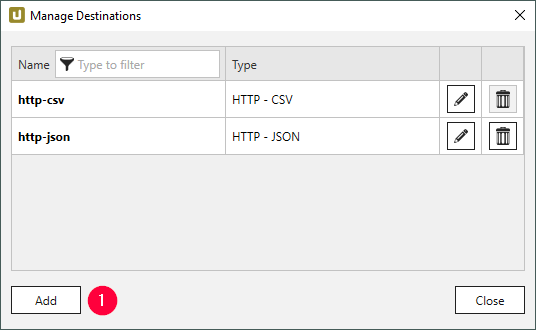
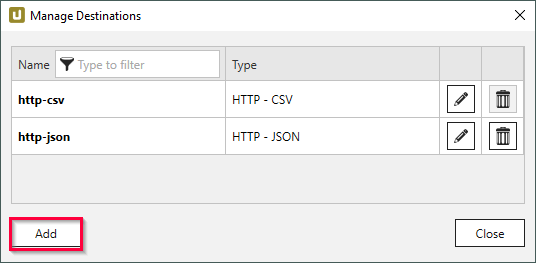
csv destination

Changed region(s): [[0.0299, 0.1217, 0.9851, 0.6084], [0.0, 0.7605, 1.0, 1.0], [0.0, 0.0, 1.0, 0.0913]]

diff --git a/projects/xtract-universal/docs/documentation/destinations/csv-via-http.md b/projects/xtract-universal/docs/documentation/destinations/csv-via-http.md
@@ -1,6 +1,60 @@
 ---
-title: CSV Web Service
+title: HTTP CSV
 description: CSV Web Service destination
 ---
 
-Coming soon...
+This page shows how to set up and use the {{ page.meta.title }} destination. <br>
+The {{ page.meta.title }} destination is a generic CSV stream over HTTP. 
+It is supported by many products, e.g., Layer2, INFONEA and KNIME. 
+
+## Create a new {{ page.meta.title }} Destination
+
+Follow the steps below to add a new {{ page.meta.title }} destination to {{ productName }}:
+
+1. In the main window of the Designer, navigate to **Server > [Manage Destinations](./managing-destinations)**. The window “Manage Destinations” opens.<br>
+![xu-destinations](../../assets/images/xu/documentation/destinations/xu_destination.png)
+2. Click **[Add]** to create a new destination. The window "Destination Details" opens.<br>
+![destinations_load_manage_shared](../../assets/images/xu/documentation/destinations/destinations_load_manage_shared.png)
+3. Enter a **Name** for the destination.
+4. Select the destination type *{{ page.meta.title }}* from the drop-down menu. 
+A list of connection details opens.
+5. Fill out the [destination details](#destination details) to connect to the destination.
+5. Click **[OK]** to confirm your input.
+
+The destination can now be assigned to extractions.
+
+### Destination Details
+
+The destination details define the connection to the destination.
+
+![CSV-Destination-Details](../../assets/images/xu/documentation/destinations/http-csv/destination-details.png){:class="img-responsive"}
+
+{% include "xu-destinations/csv-settings.md" %}
+
+{% include "xu-destinations/convert-encoding.md" %}
+
+## Assign the {{ page.meta.title }} Destination to an Extraction
+
+Extractions write data to their assigned destination. Follow the steps below to assign a destination to an extraction:
+
+1. In the main window of the Designer, select an extraction.
+2. Click **[:designer-destination:Destination]**. The window “Destination Settings” opens.<br>
+![xu_designer_destination](../../assets/images/xu/documentation/destinations/xu_designer_destination.png){:class="img-responsive"}
+3. In the “Destination Settings” window, select a destination from the drop down menu.<br>
+![assign-destination](../../assets/images/xu/documentation/destinations/assign-destination.png){:class="img-responsive"}
+4. Optional: edit the [destination settings](#destination-settings).
+5. Click **[OK]** to confirm your input.
+
+When running the extraction, the extracted SAP data is now written to the destination.
+
+### Destination Settings
+
+The destination settings only affect the extraction type that the destination is assigned to.
+To open the destination settings, select an extraction in the main window of the Designer and click **[:designer-destination:Destination]**.
+The window "Destination Settings" opens.
+
+![Destination-settings](../../assets/images/xu/documentation/destinations/http-csv/destination-settings.png){:class="img-responsive"}
+
+{% include "xu-destinations/column-name-style.md" %}
+
+{% include "xu-destinations/date-conversion.md " %}

diff --git a/projects/xtract-universal/docs/knowledge-base/run-an-ADF-pipeline-when-sap-extraction-file-is-successfully-uploaded-to-Azure-storage.md b/projects/xtract-universal/docs/knowledge-base/run-an-ADF-pipeline-when-sap-extraction-file-is-successfully-uploaded-to-Azure-storage.md
@@ -39,8 +39,8 @@ In the scenario depicted, the ADF pipeline executes a stored procedure to log va
 ### Prerequisites
 
 - Basic knowledge of {{ productName }}, see [Getting Started](../getting-started.md).
-- YBasic knowledge of [Azure Storage](https://docs.microsoft.com/en-us/azure/storage/common/storage-introduction).
-- You can successfully run {{ extractions }} from a web browser, see [Run an Extraction: URL and command-line](xtract-universal/getting-started/run-an-extraction#url-and-command-line-3).
+- Basic knowledge of [Azure Storage](https://docs.microsoft.com/en-us/azure/storage/common/storage-introduction).
+- You can successfully run {{ extractions }} from a web browser, see [Web API: Run Extractions](../web-api.md/#run-extractions).
 - [Azure Storage Destination](../documentation/destinations/azure-storage.md) is set up and running. 
 - Access to [Azure Data Factory](https://docs.microsoft.com/en-us/azure/data-factory/); basic knowledge of building ADF pipelines.
 - Basic knowledge of ADF pipeline triggers, especially [triggering a pipeline in response to a storage event](https://docs.microsoft.com/en-us/azure/data-factory/how-to-create-event-trigger?tabs=data-factory). 

diff --git a/projects/xtract-universal/docs/knowledge-base/link-bex-query-with-hierarchy.md b/projects/xtract-universal/docs/knowledge-base/link-bex-query-with-hierarchy.md
@@ -14,7 +14,7 @@ By linking the extractions, you can blend data from both data sources into a sin
 ![XU-Tableau-BExQuery-Settings](../assets/images/xu/articles/XU-Tableau-BExQuery-Settings.png){:class="img-responsive"}
 2. Open the Destination Settings of the extraction and set *Text* as the **Column Name Style** for Tableau.
 Note that using *Text* as the column name style can result in column names that are not unique.
-4. Create a BW Hierarchy extraction, see [Define a Hierarchy Extraction](../documentation/hierarchy/#define-the-bw-hierarchy-extraction-type). 
+4. Create a BW Hierarchy extraction, see [Define a Hierarchy Extraction](../documentation/hierarchy/index.md#define-the-bw-hierarchy-extraction-type). 
 <!--- ![XU-Tableau-Hierarchy](../assets/images/xu/articles/XU-Tableau-Hierarchy.png){:class="img-responsive"} -->
 5. Open the Extraction Settings of the Hierarchy and set **Representation** to *Natural*:<br>
 ![XU-Tableau-Hierarchy-Settings](../assets/images/xu/articles/XU-Tableau-Hierarchy-Settings.png){:class="img-responsive"}

diff --git a/includes/xu-destinations/column-name-style.md b/includes/xu-destinations/column-name-style.md
@@ -1,0 +1,14 @@
+
+### Column Name Style
+
+Defines the style of the column name. Following options are available: 
+
+![column_name_style_options](../../assets/images/xu/documentation/destinations/http-csv/column_name_style_options.png){:class="img-responsive"}
+
+| Option | Description |
+|--------|-------------|
+| *Code* | The SAP technical column name is used as column name in the destination e.g., MAKTX. |
+| *PrefixedCode* | The SAP technical column name is prefixed by SAP object name and the tilde character e.g., MAKT~MAKTX |
+| *CodeAndText* | The SAP technical column name and the SAP description separated by an underscore are used as column name in the destination e.g., MAKTX_Material Description (Short Text). |
+| *TextAndCode* | The SAP description and the SAP technical column name description separated by an underscore are used as column name in the destination e.g., Material Description (Short Text)_MAKTX. |
+| *Text* | The SAP description is used as column name in the destination e.g., Material Description (Short Text). |

diff --git a/includes/xu-destinations/csv-settings.md b/includes/xu-destinations/csv-settings.md
@@ -1,0 +1,26 @@
+
+### CSV Settings
+
+#### Column seperator
+Defines how two columns in CSV are separated.
+
+#### Row separator
+Defines how two rows in CSV are separated.
+
+#### Quote symbol
+Defines which character is used to encase field data. A sequence of characters may be used as "Quote symbol".
+Quotation is applied in the following scenarios:
+- The Column separator is part of the field data.
+- The Quote symbol is part of the field data.
+- The Row separator is part of the field data.
+- The Escape character is part of the field data.
+
+#### Escape character
+When Escape character is part of the field data, the respective field containing this character is encased by the "Quote symbol".
+The default escape character is the backslash '\\'. The field may remain empty.
+
+#### Column names in first row*
+Defines if the first row contains the column names. This option is set per default.
+
+#### Row separator after last row
+Defines if the last row contains a row separator. This option is set per default.

diff --git a/projects/xtract-universal/docs/documentation/execute-and-automate/call-via-commandline.md b/projects/xtract-universal/docs/documentation/execute-and-automate/call-via-commandline.md
@@ -25,7 +25,7 @@ The command line tool connects to an {{ productName }} server (service) and star
 | -o   | Parameters to be set when running the extraction. <br> Multiple parameters can be set. | `xu.exe -n <name> -s <host> -p <port> -o "param1=<wert1>" -o "param2=<wert2>"`|
 | -e   | Use [Transport Layer Security (TLS)](https://docs.microsoft.com/en-us/windows/win32/secauthn/transport-layer-security-protocol) (1.2 or higher). |   `xu.exe  -n <name> -s <host> -p <port> -e`|
 | -a   | Cancel all running instances of the extraction. | `xu.exe -a` |
-| -c   | Clear the result cache and options of the extraction. <br> This only works with [Pull Destinations](../destinations#pull-and-push-destinations). | `xu.exe -c` |  
+| -c   | Clear the result cache and options of the extraction. <br> This only works with [Pull Destinations](../destinations/index.md). | `xu.exe -c` |  
 
 #### Examples
 To run an extraction on the {{ productName }} server, call the command line tool as follows:

diff --git a/projects/xtract-universal/docs/knowledge-base/adf-integration-using-webservices.md b/projects/xtract-universal/docs/knowledge-base/adf-integration-using-webservices.md
@@ -17,7 +17,7 @@ This article targets customers that utilize ADF as a platform for orchestrating 
 
 - A [self-hosted Integration runtime](https://docs.microsoft.com/EN-US/azure/data-factory/create-self-hosted-integration-runtime#create-a-self-hosted-ir-via-azure-data-factory-ui) is set up on the server {{ productName }} runs on. 
 This ensures that {{ productName }}'s web server is accessible from ADF over http(s).   
-- The extraction uses a [push-destination](xtract-universal/destinations#pull-and-push-destinations), e.g., Azure Blob Storage or Azure SQL Server.<br> 
+- The extraction uses a [push-destination](../documentation/destinations/index.md), e.g., Azure Blob Storage or Azure SQL Server.<br> 
 - The extraction runs successfully when called from a web browser, see [Web-API](../web-api.md/#run-extractions).
 - Access to Azure Data Factory.
 - Knowledge on how to build ADF pipelines.

diff --git a/includes/xu-destinations/date-conversion.md b/includes/xu-destinations/date-conversion.md
@@ -1,0 +1,16 @@
+
+### Date Conversion
+
+#### Convert date strings
+Converts the character-type SAP date (YYYYMMDD, e.g., 19900101) to a special date format (YYYY-MM-DD, e.g., 1990-01-01). Target data uses a real date data-type and not the string data-type to store dates.
+
+#### Convert invalid dates to
+If an SAP date cannot be converted to a valid date format, the invalid date is converted to the entered value. NULL is supported as a value.
+
+When converting the SAP date the two special cases 00000000 and 9999XXXX are checked at first.
+
+#### Convert 00000000 to
+Converts the SAP date 00000000 to the entered value.
+
+#### Convert 9999XXXX to
+Converts the SAP date 9999XXXX to the entered value.

diff --git a/projects/xtract-universal/docs/documentation/parameters/script-expressions.md b/projects/xtract-universal/docs/documentation/parameters/script-expressions.md
@@ -10,7 +10,7 @@ This string can be used as input for further .NET string operations.
 
 Script expressions can be used in the following scenarios:
 
-- as selection parameters for [Table](../table/where-clause#script-expressions) or [DeltaQ](../deltaq/selections.md/#script-expressions-for-deltaq) extractions.
+- as selection parameters for [Table](../table/where-clause.md#script-expressions) or [DeltaQ](../deltaq/selections.md/#script-expressions-for-deltaq) extractions.
 - as custom SQL commands in database destinations.
 - as dynamic folder paths in cloud storage destinations.
 - as dynamic file names in database destinations, cloud storage destinations and flat-file destinations.

diff --git a/includes/xu-destinations/convert-encoding.md b/includes/xu-destinations/convert-encoding.md
@@ -1,0 +1,14 @@
+
+### Convert / Encoding
+
+#### Decimal separator
+Defines the decimal separator of decimal number for the output. Dot (.) is the default value. 
+
+#### Date format
+Defines a customized date format (e.g. YYYY-MM-DD or MM/DD/YYYY) for converting valid SAP dates (YYYYMMDD). Default is YYYY-MM-DD.
+
+#### Time format
+Defines a customized time format (e.g. HH-MM-SS or HH:MM:SS) for converting valid SAP times (HHMMSS). Default is HH:MM:SS.
+
+#### Text Encoding
+Defines the text encoding.

diff --git a/includes/components/table/xis-properties.md b/includes/components/table/xis-properties.md
@@ -1,5 +1,5 @@
 
-{% if page.meta.componentFolder == "table" %}
+{% if page.meta.componentFolder == "table" or page.meta.componentFolder == "table-cdc" %}
 #### ColumnNameStyle
 
 - *Code*: the SAP technical column name is used as column name in the output, e.g., MAKTX.

diff --git a/projects/xtract-universal/docs/documentation/destinations/server-report-services.md b/projects/xtract-universal/docs/documentation/destinations/server-report-services.md
@@ -3,4 +3,6 @@ title: Power BI Report Server (SQL Server Reporting Services)
 description: Power BI Report Server (SQL Server Reporting Services) destination
 ---
 
+This page shows how to set up and use the {{ page.meta.title }} destination. 
+ 
 Coming soon...
